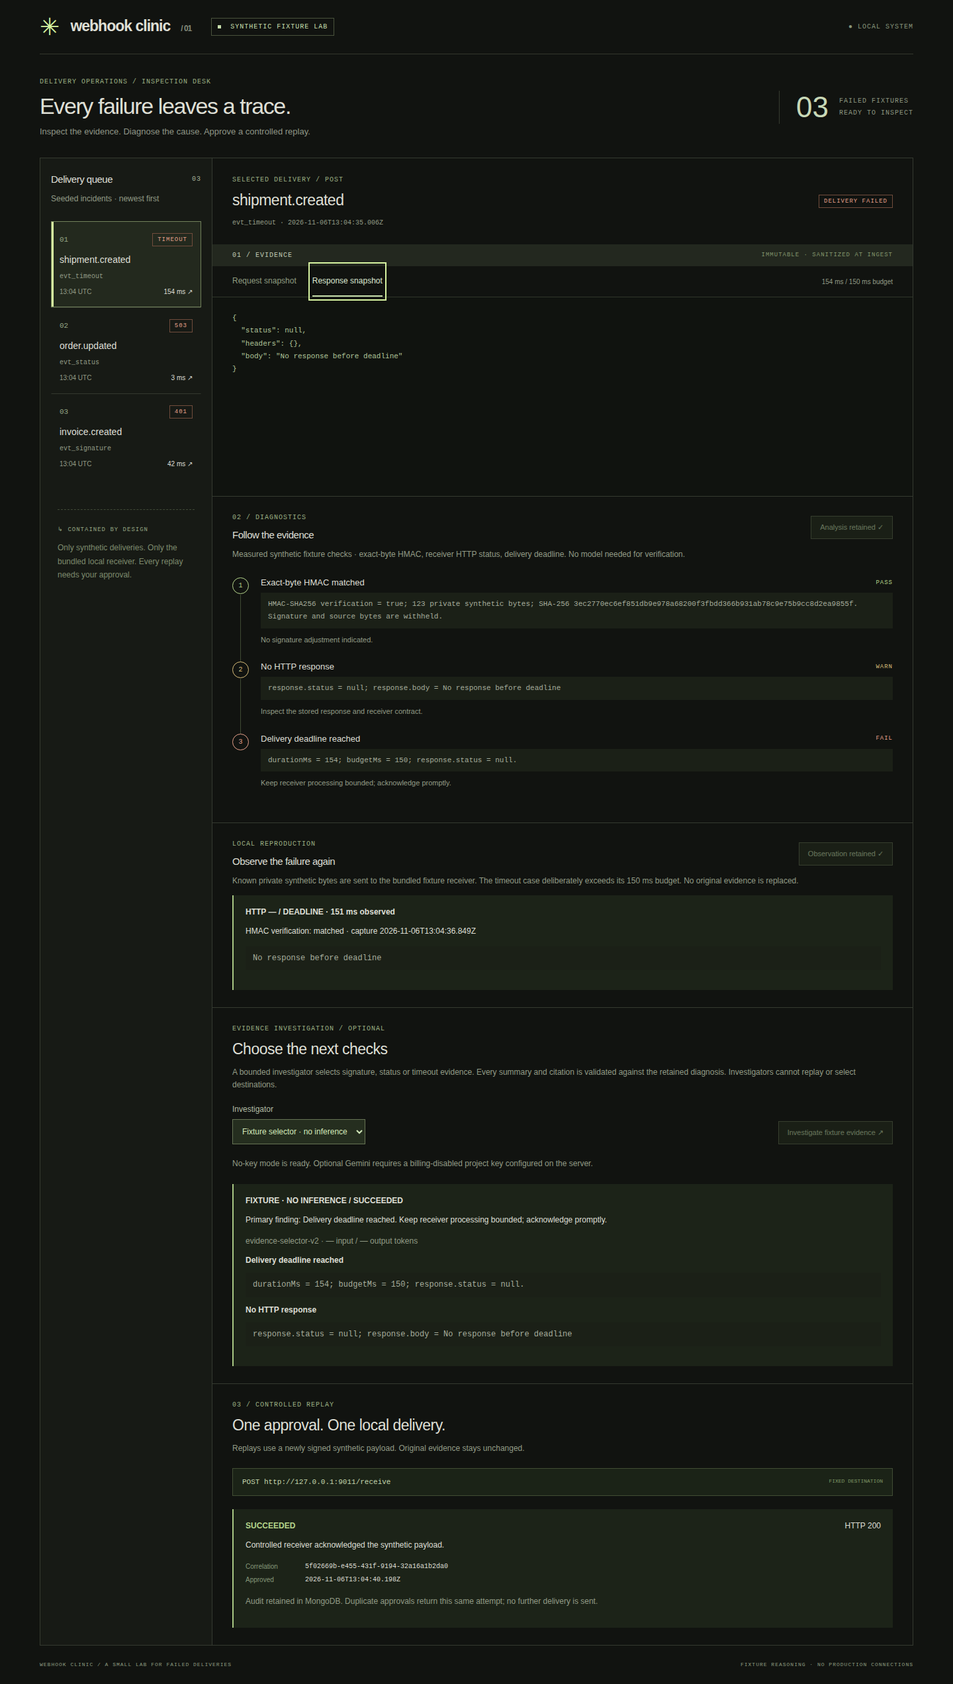
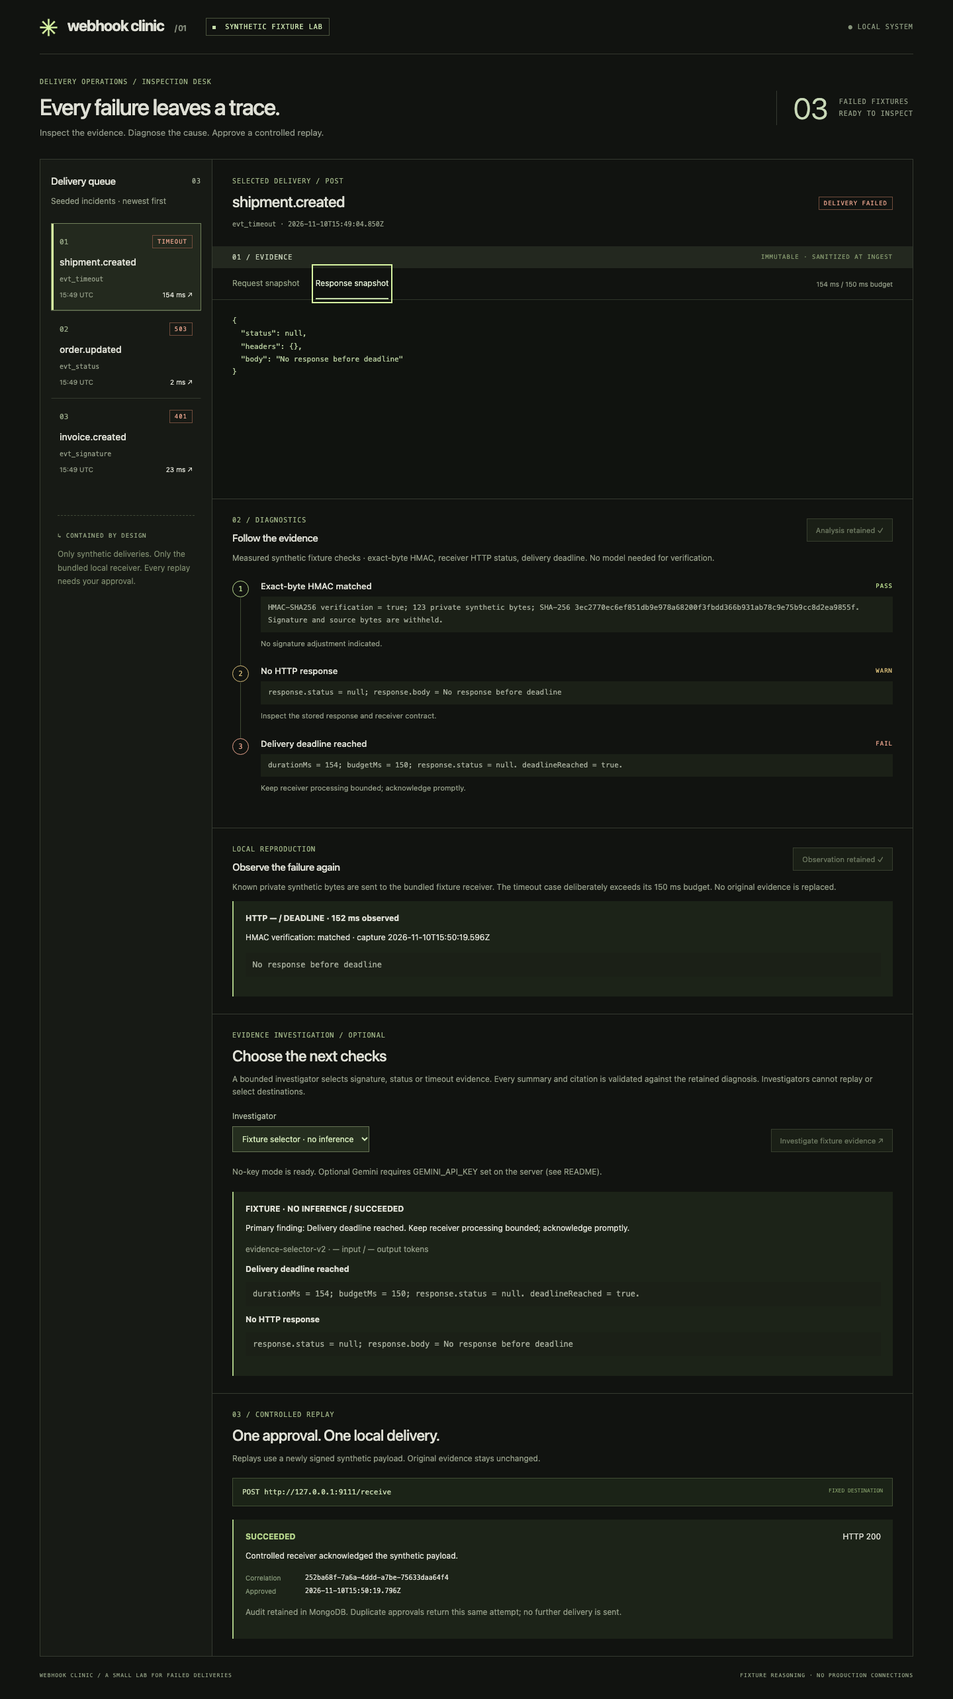
Rewrite README for outside readers; add threat model; refresh screenshots
Remove internal wording from user-facing docs and record the fresh-clone
verification run.

diff --git a/README.md b/README.md
@@ -1,48 +1,112 @@
 # Webhook Clinic
 
-A local inspection desk for failed webhook deliveries. React + Vite/TypeScript, Express/TypeScript, MongoDB and Redis. Three synthetic failures cover an invalid signature, HTTP 503 and a delivery timeout. The no-key workflow uses **deterministic fixture reasoning**. An optional server-only Gemini evidence selector passed a [three-case synthetic live compatibility check](docs/live-validation.md); broader model quality remains unverified.
+A local inspection desk for failed webhook deliveries.
 
-The original v1 local workflow includes real failure reproduction, exact-byte HMAC verification, evidence investigation and an explicitly approved replay. Full PRD AI acceptance remains open for broader quality evaluation and a second supported provider configuration; only the exact Gemini model used in the recorded baseline is currently authorized.
+## Problem and user
 
-![Local inspection desk](docs/screenshots/desktop.png)
+When a webhook delivery fails, a backend developer has to work out why (bad signature, receiver error or timeout) and then decide whether it is safe to send it again. Logs rarely keep the exact evidence, and a careless replay can deliver the same event twice or to the wrong place. Webhook Clinic shows that workflow end to end on three synthetic failures: inspect the evidence, run deterministic diagnostics, review the cited evidence, and replay once, with explicit approval, to a fixed local receiver. Every step leaves an audit record.
 
-## Run locally
+## Features
 
-Requires Node 22+ and Docker Compose. Use these dedicated loopback ports: UI **5174**, API **8011**, controlled receiver **9011**, MongoDB **27018**, Redis **6381**. Check that they are free first; do not stop unrelated applications.
+- Three seeded synthetic failures, actually reproduced against a bundled receiver: invalid HMAC (401), receiver unavailable (503) and a missed 150 ms deadline.
+- Immutable, redacted request/response snapshots. The HMAC is verified over the private exact bytes before redaction.
+- Three deterministic diagnostics (signature, HTTP status, deadline), each citing its source evidence.
+- Optional evidence investigation: a no-key fixture selector, or Gemini (`gemini-3.5-flash-lite`) with your own key. The model can only pick allowlisted checks and quote existing evidence; it cannot replay or choose a destination.
+- Approved replay: a newly signed payload goes only to `127.0.0.1:<receiver port>/receive`. Redirects and automatic retries are disabled. Redis coordinates and MongoDB unique indexes ensure one retained audit per fixture.
+- Keyboard-accessible, responsive UI with a clear fixture-mode label.
+
+## Screenshots
+
+| Desktop | Mobile |
+|---|---|
+| ![Desktop inspection desk after an approved replay](docs/screenshots/desktop.png) | ![Mobile layout of the same workflow](docs/screenshots/mobile.png) |
+
+These screenshots come from a fresh clone that ran with port overrides, so the receiver is shown on port 9111.
+
+## Quick start (fixture mode, no key)
+
+Requires Node 22+ and Docker with Compose. Everything binds to `127.0.0.1`. Default ports: UI **5174**, API **8011**, receiver **9011**, MongoDB **27018**, Redis **6381**.
 
 ```sh
+git clone https://github.com/abdulrehmanawan99/webhook-clinic.git
+cd webhook-clinic
 npm ci
 docker compose up -d --wait
 npm run dev
 ```
 
-Open **http://127.0.0.1:5174** (use this exact host; mutation origin checks intentionally reject other origins). Select a fixture, inspect request/response snapshots, run diagnostics, review their source evidence, check the explicit approval box, then replay. A retained audit replaces the approval control. Other fixtures remain available to exercise the flow.
+Open **http://127.0.0.1:5174**. Use exactly this address: the API rejects changes from any other origin.
 
-Defaults work without an env file. `.env.example` documents optional overrides. To use one, copy it to `.env` and export its variables in your shell before starting; the app does not automatically load it. Only synthetic signing material belongs here.
+1. Select a delivery in the queue (for example, `shipment.created`).
+2. Run diagnostics, then read the evidence cited for each check. You can also reproduce the failure locally.
+3. Optionally, run the fixture investigation (no inference).
+4. Tick the approval box and click **Approve & replay locally**.
+5. The retained audit (status, correlation ID, approval time) replaces the approval control and persists after a reload.
+
+Each fixture allows exactly one replay attempt, by design. Stop with Ctrl-C. `docker compose stop` keeps the data.
+
+### Ports already in use?
+
+Copy `.env.example` to `.env` and uncomment the port variables. The server, Vite and Docker Compose all read `.env`. The allowed UI origin follows `CLINIC_UI_PORT`. To run a second copy next to an existing one, also set a separate Compose project:
 
 ```sh
-npm run build             # strict type check + UI bundle
-npm test                  # domain, provider/scoring regressions; offline
-npm run evaluate          # rescore persisted live baseline; no inference
-npm run check:secrets     # bounded tracked-text + frontend-bundle pattern check
-npm run licenses          # offline locked/installed dependency inventory
-npm run test:integration  # running app + local MongoDB required; retains audit
-npm run test:scenarios    # app ports FREE; starts isolated app; briefly stops project DB/cache
-npm audit
+COMPOSE_PROJECT_NAME=webhook-clinic-2
+CLINIC_UI_PORT=5274
+CLINIC_API_PORT=8111
+CLINIC_RECEIVER_PORT=9111
+CLINIC_MONGO_PORT=27118
+CLINIC_REDIS_PORT=6481
 ```
 
-`npm start` runs the API and bundled receiver only. `npm run dev` also runs Vite. Ctrl-C stops the application. `docker compose stop` preserves MongoDB data. No reset or deletion is needed; seed insertion uses `$setOnInsert` and repeated approvals return the existing audit.
+Then open `http://127.0.0.1:5274`. Variables exported in your shell take precedence over `.env`.
 
-## Workflow and boundaries
+## Use your own Gemini key
 
-- Sanitized fixtures are inserted once and served as immutable request/response evidence. There is no ingestion or edit endpoint.
-- Seed creation actually sends private synthetic bytes to the bundled receiver: invalid HMAC returns 401, controlled unavailability returns 503, and a delayed response exceeds a 150 ms deadline. The separate reproduce action retains a new observation without replacing original evidence.
-- Three fixed diagnostics retain source fields. HMAC is verified over private exact bytes before redaction; only its result, byte count and body hash are persisted. The sanitized inspector body must not be used to verify the original signature.
-- Optional investigation selects up to three allowlisted evidence checks with exact validated citations. Fixture mode performs no inference. Gemini mode requires an explicit UI request and server-side configuration; it cannot replay or choose a destination. See [provider and evaluation boundaries](docs/provider-evaluation.md).
-- Replay requires a retained diagnosis plus explicit approval. The server signs a new synthetic payload and sends it only to the compiled-in `127.0.0.1:9011/receive` destination. Client-supplied destinations are rejected. Redirects and automatic retries are disabled.
-- Redis holds a short replay coordination lock. MongoDB unique indexes enforce one audit per delivery and one receiver receipt per correlation ID. Redis is coordination, never the durable source of truth.
-- Each fixture allows one retained attempt, including failure or uncertain acknowledgement. This deliberate limit avoids accidental duplicate delivery. A process crash after approval can leave a pending audit; inspect it rather than replaying automatically.
+1. Create an API key in [Google AI Studio](https://aistudio.google.com/apikey).
+2. Run `cp .env.example .env` and set `GEMINI_API_KEY=<your key>` in `.env`. Exporting `GEMINI_API_KEY` in your shell also works.
+3. Restart `npm run dev`. `GET http://127.0.0.1:8011/api/config` should report `"geminiAvailable": true`.
+4. In the UI, run diagnostics, choose **Gemini** under *Investigator* and request the investigation.
 
-See [frozen evaluation gates](docs/evaluation.md), [release review](docs/release-review.md), [third-party attribution](docs/third-party.md), [architecture and threat boundaries](docs/architecture.md) and [actual verification](docs/verification.md). This is a trusted-machine portfolio demo with no accounts, production credentials, arbitrary destinations or background workers. The optional live investigator sends only retained synthetic diagnostic findings to the fixed Gemini API endpoint.
+The model is fixed to `gemini-3.5-flash-lite`. The key stays on the server and is never sent to the browser, stored or logged. Only the three synthetic diagnostic findings are sent to Google's API. Each delivery gets one Gemini attempt; a failed attempt stays visible and is not retried. **Billing, quota and data-use terms are governed by your own Google project.** The app does not check them, so review your plan before you enable the key.
 
-Storage namespace `webhook_clinic_v2` identifies the revised capture schema, not a product release. Earlier `webhook_clinic` deliveries and audits are preserved untouched. No migration silently rewrites immutable evidence.
+## Tests
+
+```sh
+npm test                  # offline unit/domain/provider-contract tests; no network calls
+npm run build             # strict type check and production UI bundle
+npm run evaluate          # rescore the recorded Gemini baseline offline; no inference
+npm run check:secrets     # pattern scan of tracked text and the frontend bundle
+npm run test:integration  # needs the app and databases running; writes an audit
+npm run test:browser      # Playwright end-to-end workflow and axe scan (npx playwright install chromium)
+npm run test:scenarios    # app stopped first; briefly stops this project's MongoDB/Redis
+npm run licenses          # offline dependency license inventory
+```
+
+CI runs all of these except `licenses` on every pull request, with Gemini disabled.
+
+## Limitations
+
+- Portfolio demo for a trusted local machine. There are no accounts, no arbitrary webhook ingestion, no production destinations and no cloud deployment.
+- Diagnostics cover three known synthetic failure types; the redactor is built for these fixtures, not for arbitrary data.
+- Gemini was live-tested on 3 synthetic cases only, with `gemini-3.5-flash-lite` only ([record](docs/live-validation.md)). Broader model quality is unverified, and no other provider is supported.
+- No distributed exactly-once guarantee. A crash or timeout leaves a pending or uncertain audit, which the app shows rather than retrying.
+
+## Troubleshooting
+
+- **"Mutations require the local Clinic UI origin."**: open `http://127.0.0.1:<CLINIC_UI_PORT>` exactly (not `localhost` and not another port).
+- **Port already in use / `strictPort` error**: set the `CLINIC_*_PORT` overrides shown above. Do not stop other applications.
+- **API exits with a MongoDB or Redis connection error**: run `docker compose ps`, and if needed `docker compose up -d --wait`. Check that `CLINIC_MONGO_PORT`/`CLINIC_REDIS_PORT` match in `.env`.
+- **Gemini option disabled**: `GEMINI_API_KEY` is empty or not visible to the server. Restart after editing `.env`.
+- **Replay button gone / nothing happens on a second replay**: by design, one attempt per fixture. The audit is shown instead.
+- **Start over**: `docker compose down -v` deletes this project's database volume. The fixtures are re-seeded on the next start.
+
+## Docs
+
+- [Architecture](docs/architecture.md)
+- [Threat model](docs/threat-model.md)
+- [Provider and evaluation boundaries](docs/provider-evaluation.md)
+- [Evaluation gates](docs/evaluation.md)
+- [Live validation record](docs/live-validation.md)
+- [Verification record](docs/verification.md)
+- [Release review](docs/release-review.md)
+- [Third-party attribution](docs/third-party.md)

diff --git a/docs/threat-model.md b/docs/threat-model.md
@@ -1,0 +1,32 @@
+# Local threat model
+
+Scope: one trusted OS user running one installation on loopback with synthetic fixtures. This summarizes controls already described in [architecture](architecture.md) and the [release review](release-review.md). It is not a hosted-deployment approval or a security certification.
+
+## Assets
+
+- Immutable, redacted delivery evidence; retained diagnoses, investigations, replay audits and receiver receipts in MongoDB.
+- The demo HMAC signing key (`DEMO_SIGNING_KEY`, synthetic by design) and the optional `GEMINI_API_KEY`.
+- Replay integrity: at most one approved delivery per fixture, only to the bundled receiver.
+
+## Trust boundaries
+
+| Boundary | Controls | Residual risk |
+|---|---|---|
+| Browser to API | Loopback listeners; exact `Host` check; mutations require the exact UI `Origin` (follows `CLINIC_UI_PORT`); no CORS; 16 KiB bodies; strict schemas reject extra fields; 5 s server header/request bounds | Not authentication. Any local process or user with loopback or database access is trusted |
+| Replay to controlled receiver | Requires a retained diagnosis and the exact approval literal; a durable audit is written before network work; destination is `127.0.0.1:<receiver port>/receive`, never request input; redirects and automatic retries disabled; 1.5 s deadline; Redis lock plus MongoDB unique indexes on audit and receipt | No distributed exactly-once promise. A crash or timeout leaves a pending/uncertain audit that is shown, not retried |
+| HMAC secrets | Signatures verified over private exact bytes before redaction; only result, byte count and body hash persisted; authorization, cookie, signature, token, secret, password and email keys redacted; keys never sent to the browser, logs or MongoDB | The redactor is tailored to the known fixtures and is not a safe pipeline for arbitrary data |
+| Untrusted payloads in model prompts | Gemini receives only the three retained synthetic diagnostic findings, never raw payloads or secrets; fixed endpoint, no tools, no SDK; strict JSON schema, allowlisted check IDs and exact citation matching; refusal, truncation, malformed or oversized (32 KiB) output fails closed; 10 s deadline; one durable attempt per delivery and mode | Prompt-injection resistance is checked with mocked rejection tests only; live behavior is verified on three synthetic cases |
+| Coordination stores | Redis and MongoDB published only on loopback; Redis calls bounded at 1 s with a 128-command queue; Redis failure makes new replays fail closed | Redis has no password; anyone with local database access can alter records. Audits are not tamper-evident |
+
+## Threats and mitigations
+
+- **Cross-site request from another website** — rejected by the exact Origin/Host checks and missing CORS headers.
+- **Replay to an attacker-chosen destination (SSRF)** — no destination, URL or header is accepted from requests; client-supplied destinations are rejected and redirects produce zero requests (scenario test).
+- **Duplicate or concurrent replay** — the audit-first design plus unique indexes return the existing audit (integration test with concurrent approvals).
+- **Secret disclosure** — synthetic keys only; `.env` is ignored by git; `npm run check:secrets` scans tracked text and the frontend bundle for common key patterns.
+- **Model fabricates evidence or attempts actions** — the model can only select allowlisted checks with exact quotes; all prose comes from deterministic rules; it cannot replay or choose a destination.
+- **Resource exhaustion** — bounded bodies, pagination limits, request and network deadlines, and a single provider attempt per delivery and mode.
+
+## Residual risks
+
+Trusted-machine scope only: no accounts, no TLS and no protection against local malware or database administrators. The Vite development server must stay on loopback. Gemini billing, quota and data use are governed by the key owner's Google project. Dependency audits and secret scans are point-in-time checks. Public hosting would need authentication, network policy, secret management and a new review.

diff --git a/docs/verification.md b/docs/verification.md
@@ -1,5 +1,14 @@
 # Verification record
 
+## Setup and fresh-clone check — 2026-11-10
+
+The branch was cloned into a new directory and the README was followed exactly on macOS with Node 22.11.0. The steps were `npm ci`, `docker compose up -d --wait` and `npm run dev`. Another instance already used the default ports, so the clone used a `.env` that set `COMPOSE_PROJECT_NAME` and the `CLINIC_*_PORT` overrides (UI 5274, API 8111, receiver 9111, MongoDB 27118, Redis 6481). The server, Vite and Compose all picked up the overrides. A mutation sent with the default-port origin was rejected.
+
+- `npm test`: 16 offline tests passed, including `.env` loading with exported-variable precedence, port validation, and the key-only Gemini gate. No inference calls were made.
+- `npm run build`: passed.
+- `npm run test:browser` against the clone: the full fixture workflow passed (select, diagnose, reproduce, fixture investigation, approve, replay, audit retained after reload, keyboard tabs), with zero browser errors and zero axe violations on desktop and mobile. The refreshed screenshots come from this run, which is why they show receiver port 9111.
+- `npm run test:integration` and `npm run test:scenarios` passed against the clone's own Compose project. Only that project's containers were stopped, and they were removed afterwards.
+
 ## Current implementation — 2026-11-06
 
 Verified locally with Node 24.22.1:
@@ -21,7 +30,7 @@ The outage failure was reproduced locally with child stdout/stderr enabled. Redi
 
 The GitHub Actions workflow starts this project's real MongoDB/Redis on a fresh Linux runner, owns its API/receiver lifecycle, runs integration and browser checks, stops the owned app process, then runs failure scenarios. Gemini credentials are explicitly disabled and cleanup affects only this Compose project.
 
-Three authorized synthetic Gemini app investigations subsequently succeeded; see the separate [live validation record](live-validation.md). Broader quality and two-provider acceptance remain unverified.
+Three synthetic Gemini app investigations subsequently succeeded; see the separate [live validation record](live-validation.md). Broader quality and two-provider acceptance remain unverified.
 
 ## Post-merge deadline correction — 2026-11-06
 

diff --git a/docs/provider-evaluation.md b/docs/provider-evaluation.md
@@ -14,4 +14,4 @@ One durable attempt per delivery/mode prevents repeated quota use after refresh,
 
 `npm test` includes a three-case fixture evaluation: expected primary checks are signature for invalid HMAC, status for HTTP 503, and timeout for the exceeded deadline. It checks exact evidence citation grounding. This is a tiny deterministic regression set, not measured live model quality. Mock HTTP contract tests check headers, limits, structured output and no execution tools; rejection tests cover injection-like fabricated citations, unknown fields, duplicate checks, refusal, truncation and oversize output. These tests do not establish provider compatibility.
 
-The [live baseline](live-validation.md) records actual model/schema acceptance, primary-check matches, exact citations, latency and usage for the three cases. No replay was triggered. [Frozen development gates and offline scoring](evaluation.md) now cover the versioned persisted baseline. Broader/unseen-case model quality remains unverified. A second available and authorized provider configuration is required before claiming portability acceptance; the current authorization permits only the exact Gemini model above. No second provider adapter or result is claimed today. The implementation deliberately limits AI to evidence selection and supported summaries; it does not diagnose arbitrary production logs.
+The [live baseline](live-validation.md) records actual model/schema acceptance, primary-check matches, exact citations, latency and usage for the three cases. No replay was triggered. [Frozen development gates and offline scoring](evaluation.md) now cover the versioned persisted baseline. Broader/unseen-case model quality remains unverified. Only the Gemini model above is supported; no second provider adapter or portability result is claimed. The implementation deliberately limits AI to evidence selection and supported summaries; it does not diagnose arbitrary production logs.

diff --git a/docs/live-validation.md b/docs/live-validation.md
@@ -28,7 +28,7 @@ quality acceptance. The model selected evidence already computed by deterministi
 rules; it did not independently verify signatures or execute replay tools.
 Offline mocked rejection tests are separate from these successful live calls.
 
-The canonical PRD Webhook Clinic acceptance requires local failure reproduction,
+Webhook Clinic's acceptance criteria require local failure reproduction,
 a validated cause, retained replay audit evidence and restricted-destination
 rejection. Existing integration/browser/scenario checks exercise that bounded
 workflow; see [verification](verification.md). Live model output alone does not
@@ -36,7 +36,6 @@ establish those safety properties.
 
 The [frozen development evaluation](evaluation.md) now provides versioned labels,
 numeric gates and a reproducible offline scoring command for these retained
-results. Broader/unseen-case quality remains unverified. A second provider
-configuration is unverified and cannot be tested under the current exact-model-only
-authorization. No second provider, arbitrary-log diagnosis, production replay, or
-general AI acceptance is claimed. There is no need to repeat these successful calls.
+results. Broader/unseen-case quality remains unverified. Only `gemini-3.5-flash-lite` is
+supported; no second provider is implemented. No second provider, arbitrary-log diagnosis, production replay, or
+general AI acceptance is claimed.

diff --git a/docs/evaluation.md b/docs/evaluation.md
@@ -57,7 +57,6 @@ snapshot and receive a new version rather than silently changing these labels.
 Live invalid-output behavior was not observed; rejection safety has mocked tests.
 The baseline predates the deadline-evidence correction and retains its original
 quotes. It does not prove a subsequent prompt/evidence version against live Gemini.
-No successful call should be repeated merely to refresh the score. Broader or
-unseen-case model quality and a second provider remain unverified under the
-current exact-model-only authorization. No latency percentile, throughput,
+Broader or unseen-case model quality remains unverified, and only
+`gemini-3.5-flash-lite` is supported. No latency percentile, throughput,
 resource, queue-capacity or general performance claim is made from three calls.

diff --git a/docs/scope.md b/docs/scope.md
@@ -14,8 +14,8 @@ Dense monochrome event console with request/response inspectors and signal color
 
 Keep the implementation cohesive and local. No accounts, cloud hosting, production
 integrations, or payment infrastructure. Fixture mode must be explicit and limited
-to known sample data. Real inference remains unvalidated until a provider is chosen
-and authorized. Preserve essential validation and safe execution boundaries.
+to known sample data. Optional Gemini inference only selects already computed
+evidence. Preserve essential validation and safe execution boundaries.
 
 ## Acceptance
 

diff --git a/docs/release-review.md b/docs/release-review.md
@@ -52,7 +52,7 @@ security assessment.
 Versioned labels, gates, result export, scoring/failure examples and model
 variability limits are in [evaluation](evaluation.md). The three prior live calls
 are a synthetic development compatibility baseline. Broader/unseen-case quality
-and a second provider remain unverified. No authorized second provider exists.
+and a second provider remain unverified. Only one provider (Gemini) is implemented.
 Resource/queue measurements and latency percentiles are not established; no such
 performance claims are made.
 
